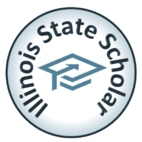
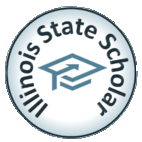
add css stylesheet and reset. remove border from state scholar image

diff --git a/reset.css b/reset.css
@@ -1,0 +1,48 @@
+/* http://meyerweb.com/eric/tools/css/reset/ 
+   v2.0 | 20110126
+   License: none (public domain)
+*/
+
+html, body, div, span, applet, object, iframe,
+h1, h2, h3, h4, h5, h6, p, blockquote, pre,
+a, abbr, acronym, address, big, cite, code,
+del, dfn, em, img, ins, kbd, q, s, samp,
+small, strike, strong, sub, sup, tt, var,
+b, u, i, center,
+dl, dt, dd, ol, ul, li,
+fieldset, form, label, legend,
+table, caption, tbody, tfoot, thead, tr, th, td,
+article, aside, canvas, details, embed, 
+figure, figcaption, footer, header, hgroup, 
+menu, nav, output, ruby, section, summary,
+time, mark, audio, video {
+	margin: 0;
+	padding: 0;
+	border: 0;
+	font-size: 100%;
+	font: inherit;
+	vertical-align: baseline;
+}
+/* HTML5 display-role reset for older browsers */
+article, aside, details, figcaption, figure, 
+footer, header, hgroup, menu, nav, section {
+	display: block;
+}
+body {
+	line-height: 1;
+}
+ol, ul {
+	list-style: none;
+}
+blockquote, q {
+	quotes: none;
+}
+blockquote:before, blockquote:after,
+q:before, q:after {
+	content: '';
+	content: none;
+}
+table {
+	border-collapse: collapse;
+	border-spacing: 0;
+}

diff --git a/StyleSheet.css b/StyleSheet.css
@@ -1,0 +1,67 @@
+body {
+  background-color: #38B9D5;
+}
+
+h1 {
+  font-size: 3.125em;
+  font-family: 'Merriweather', serif;
+  padding: .25em .5em;
+}
+
+h2 {
+  font-size: 2em;
+  padding: .25em .5em;
+}
+
+h3 {
+  font-size: 1.5em;
+  padding: .25em .75em;
+}
+
+h4 {
+  font-size: 1.25em;
+  padding: .25em 1em;
+}
+
+p {
+  font-size: 1em;
+  padding: .25em 1em;
+}
+
+p strong {
+  font-weight: bold;
+}
+
+p em {
+  font-style: italic;
+}
+
+nav {
+  display: inline-block;
+  background-color: #494949;
+  text-align: center;
+  float: center;
+}
+
+nav a {
+  display: block;
+  text-align: center;
+  color: white;
+  padding: 1em 1em;
+  font-size: 110%;
+}
+
+nav a:hover {
+  background-color: white;
+  color: black;
+}
+
+nav a.active {
+  background-color: black;
+  color: white;
+}  
+
+ul {
+  list-style-type: square;
+  padding: 1em;
+}

diff --git a/index.html b/index.html
@@ -2,15 +2,17 @@
 <html lang="en">
 <head>
 	<meta charset="UTF-8">
-	
+	<link rel="reset" href="reset.css">
+	<link rel="StyleSheet" href="StyleSheet.css">
+	<link href="https://fonts.googleapis.com/css?family=Merriweather&display=swap" rel="stylesheet">
 <title>Resume</title>
 </head>
 <body>
-<ul>
-  <li><a href="index.html">Resume</a></li>
-  <li><a href="huatulco.html">Huatulco</a></li>
-  <li><a href="paige.html">Paige</a></li>
-</ul>
+<nav>
+  <a class="active">Resume</a>
+  <a href="huatulco.html">Huatulco</a>
+  <a href="paige.html">Paige</a>
+</nav>
 <h1>Jacob Roberson</h1>
 <h3>Illinois Institute of Technology Undergrad</h3>
 <h4>10299 Cotton Grass Ct.</h4>
